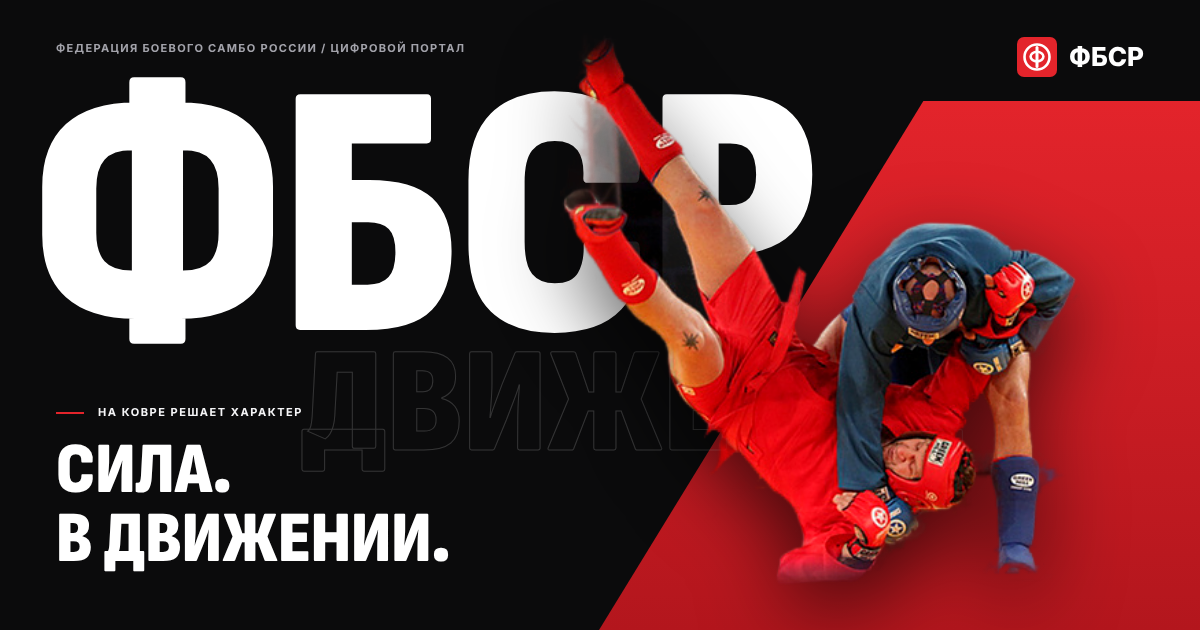
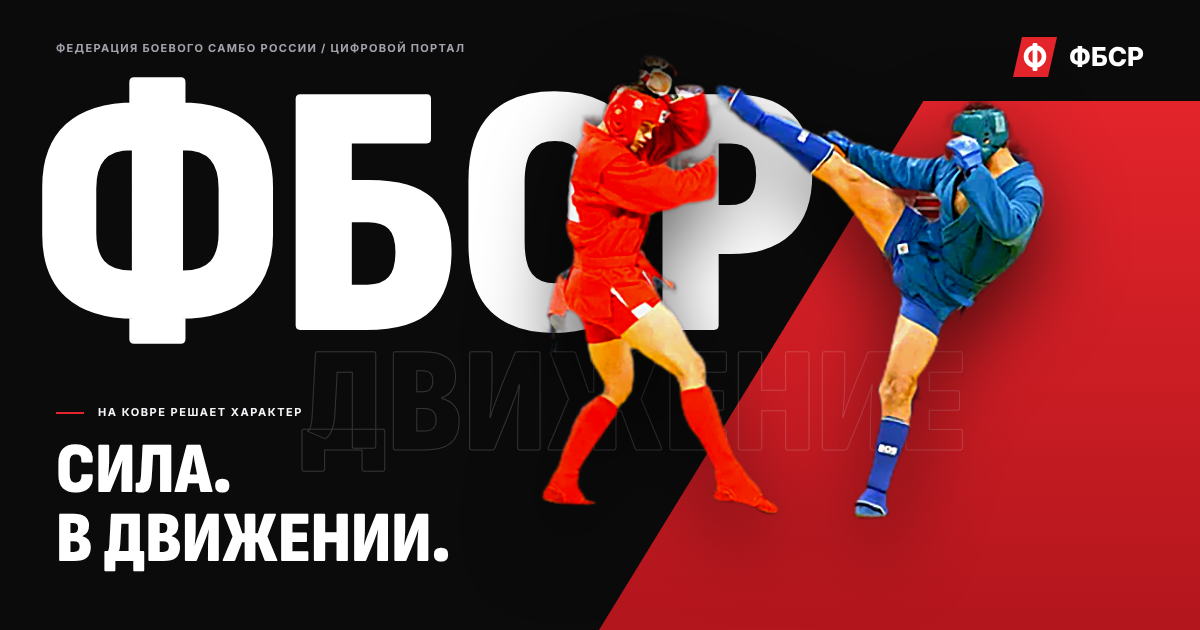
Hero как на макете: стоячая дуэль, постерная обработка фото, логотип
- На главной теперь фото удара ногой (оба спортсмена в стойке, как
  на макете) с постерной обработкой: шумоподавление, контраст,
  насыщенность, резкость; композиция поверх букв «СР» и диагонали
- Фото броска перенесено в шапку раздела «Соревнования»
- Логотип перерисован по макету: скошенный красный знак с белой «Ф»
- OG-картинка перегенерирована, README обновлён

Claude-Session: https://claude.ai/code/session_01J2QHFTbKmJovz3n8Evufan

Changed region(s): [[0.4317, 0.0603, 0.925, 0.9952], [0.8325, 0.0603, 0.8942, 0.1206]]

diff --git a/index.html b/index.html
@@ -37,7 +37,7 @@
 <header class="header">
   <div class="container header__inner">
     <a class="brand" href="index.html" aria-label="ФБСР — на главную">
-      <span class="brand__mark"><svg viewBox="0 0 40 40" aria-hidden="true"><rect width="40" height="40" rx="7" fill="#e3242b"/><circle cx="20" cy="20" r="12.5" fill="none" stroke="#fff" stroke-width="2.6"/><path d="M20 10.5v19" stroke="#fff" stroke-width="3" stroke-linecap="round"/><ellipse cx="20" cy="19.6" rx="6.4" ry="4.8" fill="none" stroke="#fff" stroke-width="2.6"/></svg></span>
+      <span class="brand__mark"><svg viewBox="0 0 44 40" aria-hidden="true"><polygon points="9,0 44,0 35,40 0,40" fill="#e3242b"/><circle cx="22" cy="19.5" r="9" fill="none" stroke="#fff" stroke-width="4.6"/><rect x="19.6" y="6" width="4.8" height="28" rx="1.2" fill="#fff"/></svg></span>
       <span class="brand__name">ФБСР</span>
       <span class="brand__tag">Цифровой<br>портал</span>
     </a>
@@ -59,7 +59,7 @@
     <div class="hero__ghost" data-parallax="-30" data-mouse="6" aria-hidden="true">Движение</div>
     <div class="hero__word" data-parallax="-90" data-mouse="4" aria-hidden="true">ФБСР</div>
     <div class="hero__art" data-parallax="-150" data-mouse="16" data-scale="0.06">
-      <img src="assets/img/hero-throw.png" width="379" height="408" alt="Боевое самбо: бросок в поединке, спортсмены в красной и синей форме" fetchpriority="high">
+      <img src="assets/img/hero-kick.png" width="579" height="538" alt="Боевое самбо: удар ногой в стойке, спортсмены в красной и синей форме" fetchpriority="high">
     </div>
 
     <div class="hero__bottom">
@@ -245,7 +245,7 @@
     <div class="footer__grid">
       <div>
         <a class="brand" href="index.html" aria-label="ФБСР">
-          <span class="brand__mark"><svg viewBox="0 0 40 40" aria-hidden="true"><rect width="40" height="40" rx="7" fill="#e3242b"/><circle cx="20" cy="20" r="12.5" fill="none" stroke="#fff" stroke-width="2.6"/><path d="M20 10.5v19" stroke="#fff" stroke-width="3" stroke-linecap="round"/><ellipse cx="20" cy="19.6" rx="6.4" ry="4.8" fill="none" stroke="#fff" stroke-width="2.6"/></svg></span>
+          <span class="brand__mark"><svg viewBox="0 0 44 40" aria-hidden="true"><polygon points="9,0 44,0 35,40 0,40" fill="#e3242b"/><circle cx="22" cy="19.5" r="9" fill="none" stroke="#fff" stroke-width="4.6"/><rect x="19.6" y="6" width="4.8" height="28" rx="1.2" fill="#fff"/></svg></span>
           <span class="brand__name">ФБСР</span>
         </a>
         <p class="footer__text">Цифровой портал Федерации боевого самбо России: соревнования, спортсмены, клубы и сборные — в одном месте.</p>

diff --git a/competitions.html b/competitions.html
@@ -37,7 +37,7 @@
 <header class="header">
   <div class="container header__inner">
     <a class="brand" href="index.html" aria-label="ФБСР — на главную">
-      <span class="brand__mark"><svg viewBox="0 0 40 40" aria-hidden="true"><rect width="40" height="40" rx="7" fill="#e3242b"/><circle cx="20" cy="20" r="12.5" fill="none" stroke="#fff" stroke-width="2.6"/><path d="M20 10.5v19" stroke="#fff" stroke-width="3" stroke-linecap="round"/><ellipse cx="20" cy="19.6" rx="6.4" ry="4.8" fill="none" stroke="#fff" stroke-width="2.6"/></svg></span>
+      <span class="brand__mark"><svg viewBox="0 0 44 40" aria-hidden="true"><polygon points="9,0 44,0 35,40 0,40" fill="#e3242b"/><circle cx="22" cy="19.5" r="9" fill="none" stroke="#fff" stroke-width="4.6"/><rect x="19.6" y="6" width="4.8" height="28" rx="1.2" fill="#fff"/></svg></span>
       <span class="brand__name">ФБСР</span>
       <span class="brand__tag">Цифровой<br>портал</span>
     </a>
@@ -51,7 +51,7 @@
 </header>
 <main id="main">
 <section class="page-hero page-hero--art" data-word="Турниры">
-  <div class="page-hero__art" aria-hidden="true"><img src="assets/img/hero-kick.png" width="341" height="317" alt=""></div>
+  <div class="page-hero__art" aria-hidden="true"><img src="assets/img/hero-throw.png" width="568" height="612" alt=""></div>
   <div class="container">
     <ul class="breadcrumbs"><li><a href="index.html">Главная</a></li><li>Соревнования</li></ul>
     <span class="eyebrow">Сезон 2026 / 2027</span>
@@ -229,7 +229,7 @@
     <div class="footer__grid">
       <div>
         <a class="brand" href="index.html" aria-label="ФБСР">
-          <span class="brand__mark"><svg viewBox="0 0 40 40" aria-hidden="true"><rect width="40" height="40" rx="7" fill="#e3242b"/><circle cx="20" cy="20" r="12.5" fill="none" stroke="#fff" stroke-width="2.6"/><path d="M20 10.5v19" stroke="#fff" stroke-width="3" stroke-linecap="round"/><ellipse cx="20" cy="19.6" rx="6.4" ry="4.8" fill="none" stroke="#fff" stroke-width="2.6"/></svg></span>
+          <span class="brand__mark"><svg viewBox="0 0 44 40" aria-hidden="true"><polygon points="9,0 44,0 35,40 0,40" fill="#e3242b"/><circle cx="22" cy="19.5" r="9" fill="none" stroke="#fff" stroke-width="4.6"/><rect x="19.6" y="6" width="4.8" height="28" rx="1.2" fill="#fff"/></svg></span>
           <span class="brand__name">ФБСР</span>
         </a>
         <p class="footer__text">Цифровой портал Федерации боевого самбо России: соревнования, спортсмены, клубы и сборные — в одном месте.</p>

diff --git a/assets/css/main.css b/assets/css/main.css
@@ -112,8 +112,8 @@ table { border-collapse: collapse; width: 100%; }
 }
 .header__inner { height: 100%; display: flex; align-items: center; gap: 32px; }
 .brand { display: flex; align-items: center; gap: 14px; flex: 0 0 auto; }
-.brand__mark { width: 40px; height: 40px; flex: 0 0 auto; }
-.brand__name { font-family: var(--font-ui); font-weight: 800; font-size: 23px; letter-spacing: .01em; line-height: 1; }
+.brand__mark { width: 42px; height: 38px; flex: 0 0 auto; }
+.brand__name { font-family: var(--font-ui); font-weight: 800; font-size: 25px; letter-spacing: .01em; line-height: 1; }
 .brand__tag { font-family: var(--font-ui); font-weight: 700; font-size: 9px; letter-spacing: .12em; text-transform: uppercase; color: var(--muted); line-height: 1.3; border-left: 1px solid var(--line-2); padding-left: 14px; }
 .nav { display: flex; align-items: center; gap: 6px; margin-inline: auto; }
 .nav__link {
@@ -165,7 +165,7 @@ table { border-collapse: collapse; width: 100%; }
   will-change: transform;
 }
 .hero__art {
-  position: absolute; z-index: 4; left: 46%; top: 2%; height: 78%; aspect-ratio: 379 / 408; pointer-events: none;
+  position: absolute; z-index: 4; left: 45%; top: 5%; height: 64%; aspect-ratio: 579 / 538; pointer-events: none;
   will-change: transform;
 }
 .hero__art img { width: 100%; height: 100%; object-fit: contain; object-position: bottom; filter: contrast(1.06) saturate(1.08) drop-shadow(0 30px 40px rgba(0,0,0,.65)); }
@@ -500,7 +500,7 @@ table { border-collapse: collapse; width: 100%; }
   .hero__meta--right { margin-top: -39px; justify-content: flex-end; }
   .hero__word { position: relative; left: 0; top: 0; margin-top: 20px; font-size: clamp(120px, 32vw, 280px); }
   .hero__ghost { left: 10%; top: 38%; font-size: clamp(64px, 16vw, 140px); }
-  .hero__art { position: relative; left: auto; top: auto; height: auto; width: min(100%, 520px); margin: -12% 0 0 auto; aspect-ratio: 379 / 408; }
+  .hero__art { position: relative; left: auto; top: auto; height: auto; width: min(100%, 560px); margin: -10% 0 0 auto; aspect-ratio: 579 / 538; }
   .hero__red { inset: 22% -20% 0 0; clip-path: polygon(70% 0, 100% 0, 100% 100%, 40% 100%); }
   .hero__bottom { position: relative; bottom: auto; grid-template-columns: 1fr; gap: 24px; margin-top: 24px; }
   .hero__text { max-width: 44ch; }

diff --git a/athletes.html b/athletes.html
@@ -37,7 +37,7 @@
 <header class="header">
   <div class="container header__inner">
     <a class="brand" href="index.html" aria-label="ФБСР — на главную">
-      <span class="brand__mark"><svg viewBox="0 0 40 40" aria-hidden="true"><rect width="40" height="40" rx="7" fill="#e3242b"/><circle cx="20" cy="20" r="12.5" fill="none" stroke="#fff" stroke-width="2.6"/><path d="M20 10.5v19" stroke="#fff" stroke-width="3" stroke-linecap="round"/><ellipse cx="20" cy="19.6" rx="6.4" ry="4.8" fill="none" stroke="#fff" stroke-width="2.6"/></svg></span>
+      <span class="brand__mark"><svg viewBox="0 0 44 40" aria-hidden="true"><polygon points="9,0 44,0 35,40 0,40" fill="#e3242b"/><circle cx="22" cy="19.5" r="9" fill="none" stroke="#fff" stroke-width="4.6"/><rect x="19.6" y="6" width="4.8" height="28" rx="1.2" fill="#fff"/></svg></span>
       <span class="brand__name">ФБСР</span>
       <span class="brand__tag">Цифровой<br>портал</span>
     </a>
@@ -181,7 +181,7 @@
     <div class="footer__grid">
       <div>
         <a class="brand" href="index.html" aria-label="ФБСР">
-          <span class="brand__mark"><svg viewBox="0 0 40 40" aria-hidden="true"><rect width="40" height="40" rx="7" fill="#e3242b"/><circle cx="20" cy="20" r="12.5" fill="none" stroke="#fff" stroke-width="2.6"/><path d="M20 10.5v19" stroke="#fff" stroke-width="3" stroke-linecap="round"/><ellipse cx="20" cy="19.6" rx="6.4" ry="4.8" fill="none" stroke="#fff" stroke-width="2.6"/></svg></span>
+          <span class="brand__mark"><svg viewBox="0 0 44 40" aria-hidden="true"><polygon points="9,0 44,0 35,40 0,40" fill="#e3242b"/><circle cx="22" cy="19.5" r="9" fill="none" stroke="#fff" stroke-width="4.6"/><rect x="19.6" y="6" width="4.8" height="28" rx="1.2" fill="#fff"/></svg></span>
           <span class="brand__name">ФБСР</span>
         </a>
         <p class="footer__text">Цифровой портал Федерации боевого самбо России: соревнования, спортсмены, клубы и сборные — в одном месте.</p>

diff --git a/clubs.html b/clubs.html
@@ -37,7 +37,7 @@
 <header class="header">
   <div class="container header__inner">
     <a class="brand" href="index.html" aria-label="ФБСР — на главную">
-      <span class="brand__mark"><svg viewBox="0 0 40 40" aria-hidden="true"><rect width="40" height="40" rx="7" fill="#e3242b"/><circle cx="20" cy="20" r="12.5" fill="none" stroke="#fff" stroke-width="2.6"/><path d="M20 10.5v19" stroke="#fff" stroke-width="3" stroke-linecap="round"/><ellipse cx="20" cy="19.6" rx="6.4" ry="4.8" fill="none" stroke="#fff" stroke-width="2.6"/></svg></span>
+      <span class="brand__mark"><svg viewBox="0 0 44 40" aria-hidden="true"><polygon points="9,0 44,0 35,40 0,40" fill="#e3242b"/><circle cx="22" cy="19.5" r="9" fill="none" stroke="#fff" stroke-width="4.6"/><rect x="19.6" y="6" width="4.8" height="28" rx="1.2" fill="#fff"/></svg></span>
       <span class="brand__name">ФБСР</span>
       <span class="brand__tag">Цифровой<br>портал</span>
     </a>
@@ -172,7 +172,7 @@
     <div class="footer__grid">
       <div>
         <a class="brand" href="index.html" aria-label="ФБСР">
-          <span class="brand__mark"><svg viewBox="0 0 40 40" aria-hidden="true"><rect width="40" height="40" rx="7" fill="#e3242b"/><circle cx="20" cy="20" r="12.5" fill="none" stroke="#fff" stroke-width="2.6"/><path d="M20 10.5v19" stroke="#fff" stroke-width="3" stroke-linecap="round"/><ellipse cx="20" cy="19.6" rx="6.4" ry="4.8" fill="none" stroke="#fff" stroke-width="2.6"/></svg></span>
+          <span class="brand__mark"><svg viewBox="0 0 44 40" aria-hidden="true"><polygon points="9,0 44,0 35,40 0,40" fill="#e3242b"/><circle cx="22" cy="19.5" r="9" fill="none" stroke="#fff" stroke-width="4.6"/><rect x="19.6" y="6" width="4.8" height="28" rx="1.2" fill="#fff"/></svg></span>
           <span class="brand__name">ФБСР</span>
         </a>
         <p class="footer__text">Цифровой портал Федерации боевого самбо России: соревнования, спортсмены, клубы и сборные — в одном месте.</p>

diff --git a/cookies.html b/cookies.html
@@ -37,7 +37,7 @@
 <header class="header">
   <div class="container header__inner">
     <a class="brand" href="index.html" aria-label="ФБСР — на главную">
-      <span class="brand__mark"><svg viewBox="0 0 40 40" aria-hidden="true"><rect width="40" height="40" rx="7" fill="#e3242b"/><circle cx="20" cy="20" r="12.5" fill="none" stroke="#fff" stroke-width="2.6"/><path d="M20 10.5v19" stroke="#fff" stroke-width="3" stroke-linecap="round"/><ellipse cx="20" cy="19.6" rx="6.4" ry="4.8" fill="none" stroke="#fff" stroke-width="2.6"/></svg></span>
+      <span class="brand__mark"><svg viewBox="0 0 44 40" aria-hidden="true"><polygon points="9,0 44,0 35,40 0,40" fill="#e3242b"/><circle cx="22" cy="19.5" r="9" fill="none" stroke="#fff" stroke-width="4.6"/><rect x="19.6" y="6" width="4.8" height="28" rx="1.2" fill="#fff"/></svg></span>
       <span class="brand__name">ФБСР</span>
       <span class="brand__tag">Цифровой<br>портал</span>
     </a>
@@ -121,7 +121,7 @@
     <div class="footer__grid">
       <div>
         <a class="brand" href="index.html" aria-label="ФБСР">
-          <span class="brand__mark"><svg viewBox="0 0 40 40" aria-hidden="true"><rect width="40" height="40" rx="7" fill="#e3242b"/><circle cx="20" cy="20" r="12.5" fill="none" stroke="#fff" stroke-width="2.6"/><path d="M20 10.5v19" stroke="#fff" stroke-width="3" stroke-linecap="round"/><ellipse cx="20" cy="19.6" rx="6.4" ry="4.8" fill="none" stroke="#fff" stroke-width="2.6"/></svg></span>
+          <span class="brand__mark"><svg viewBox="0 0 44 40" aria-hidden="true"><polygon points="9,0 44,0 35,40 0,40" fill="#e3242b"/><circle cx="22" cy="19.5" r="9" fill="none" stroke="#fff" stroke-width="4.6"/><rect x="19.6" y="6" width="4.8" height="28" rx="1.2" fill="#fff"/></svg></span>
           <span class="brand__name">ФБСР</span>
         </a>
         <p class="footer__text">Цифровой портал Федерации боевого самбо России: соревнования, спортсмены, клубы и сборные — в одном месте.</p>

diff --git a/federation.html b/federation.html
@@ -37,7 +37,7 @@
 <header class="header">
   <div class="container header__inner">
     <a class="brand" href="index.html" aria-label="ФБСР — на главную">
-      <span class="brand__mark"><svg viewBox="0 0 40 40" aria-hidden="true"><rect width="40" height="40" rx="7" fill="#e3242b"/><circle cx="20" cy="20" r="12.5" fill="none" stroke="#fff" stroke-width="2.6"/><path d="M20 10.5v19" stroke="#fff" stroke-width="3" stroke-linecap="round"/><ellipse cx="20" cy="19.6" rx="6.4" ry="4.8" fill="none" stroke="#fff" stroke-width="2.6"/></svg></span>
+      <span class="brand__mark"><svg viewBox="0 0 44 40" aria-hidden="true"><polygon points="9,0 44,0 35,40 0,40" fill="#e3242b"/><circle cx="22" cy="19.5" r="9" fill="none" stroke="#fff" stroke-width="4.6"/><rect x="19.6" y="6" width="4.8" height="28" rx="1.2" fill="#fff"/></svg></span>
       <span class="brand__name">ФБСР</span>
       <span class="brand__tag">Цифровой<br>портал</span>
     </a>
@@ -199,7 +199,7 @@
     <div class="footer__grid">
       <div>
         <a class="brand" href="index.html" aria-label="ФБСР">
-          <span class="brand__mark"><svg viewBox="0 0 40 40" aria-hidden="true"><rect width="40" height="40" rx="7" fill="#e3242b"/><circle cx="20" cy="20" r="12.5" fill="none" stroke="#fff" stroke-width="2.6"/><path d="M20 10.5v19" stroke="#fff" stroke-width="3" stroke-linecap="round"/><ellipse cx="20" cy="19.6" rx="6.4" ry="4.8" fill="none" stroke="#fff" stroke-width="2.6"/></svg></span>
+          <span class="brand__mark"><svg viewBox="0 0 44 40" aria-hidden="true"><polygon points="9,0 44,0 35,40 0,40" fill="#e3242b"/><circle cx="22" cy="19.5" r="9" fill="none" stroke="#fff" stroke-width="4.6"/><rect x="19.6" y="6" width="4.8" height="28" rx="1.2" fill="#fff"/></svg></span>
           <span class="brand__name">ФБСР</span>
         </a>
         <p class="footer__text">Цифровой портал Федерации боевого самбо России: соревнования, спортсмены, клубы и сборные — в одном месте.</p>

diff --git a/media.html b/media.html
@@ -37,7 +37,7 @@
 <header class="header">
   <div class="container header__inner">
     <a class="brand" href="index.html" aria-label="ФБСР — на главную">
-      <span class="brand__mark"><svg viewBox="0 0 40 40" aria-hidden="true"><rect width="40" height="40" rx="7" fill="#e3242b"/><circle cx="20" cy="20" r="12.5" fill="none" stroke="#fff" stroke-width="2.6"/><path d="M20 10.5v19" stroke="#fff" stroke-width="3" stroke-linecap="round"/><ellipse cx="20" cy="19.6" rx="6.4" ry="4.8" fill="none" stroke="#fff" stroke-width="2.6"/></svg></span>
+      <span class="brand__mark"><svg viewBox="0 0 44 40" aria-hidden="true"><polygon points="9,0 44,0 35,40 0,40" fill="#e3242b"/><circle cx="22" cy="19.5" r="9" fill="none" stroke="#fff" stroke-width="4.6"/><rect x="19.6" y="6" width="4.8" height="28" rx="1.2" fill="#fff"/></svg></span>
       <span class="brand__name">ФБСР</span>
       <span class="brand__tag">Цифровой<br>портал</span>
     </a>
@@ -150,7 +150,7 @@
     <div class="footer__grid">
       <div>
         <a class="brand" href="index.html" aria-label="ФБСР">
-          <span class="brand__mark"><svg viewBox="0 0 40 40" aria-hidden="true"><rect width="40" height="40" rx="7" fill="#e3242b"/><circle cx="20" cy="20" r="12.5" fill="none" stroke="#fff" stroke-width="2.6"/><path d="M20 10.5v19" stroke="#fff" stroke-width="3" stroke-linecap="round"/><ellipse cx="20" cy="19.6" rx="6.4" ry="4.8" fill="none" stroke="#fff" stroke-width="2.6"/></svg></span>
+          <span class="brand__mark"><svg viewBox="0 0 44 40" aria-hidden="true"><polygon points="9,0 44,0 35,40 0,40" fill="#e3242b"/><circle cx="22" cy="19.5" r="9" fill="none" stroke="#fff" stroke-width="4.6"/><rect x="19.6" y="6" width="4.8" height="28" rx="1.2" fill="#fff"/></svg></span>
           <span class="brand__name">ФБСР</span>
         </a>
         <p class="footer__text">Цифровой портал Федерации боевого самбо России: соревнования, спортсмены, клубы и сборные — в одном месте.</p>

diff --git a/privacy.html b/privacy.html
@@ -37,7 +37,7 @@
 <header class="header">
   <div class="container header__inner">
     <a class="brand" href="index.html" aria-label="ФБСР — на главную">
-      <span class="brand__mark"><svg viewBox="0 0 40 40" aria-hidden="true"><rect width="40" height="40" rx="7" fill="#e3242b"/><circle cx="20" cy="20" r="12.5" fill="none" stroke="#fff" stroke-width="2.6"/><path d="M20 10.5v19" stroke="#fff" stroke-width="3" stroke-linecap="round"/><ellipse cx="20" cy="19.6" rx="6.4" ry="4.8" fill="none" stroke="#fff" stroke-width="2.6"/></svg></span>
+      <span class="brand__mark"><svg viewBox="0 0 44 40" aria-hidden="true"><polygon points="9,0 44,0 35,40 0,40" fill="#e3242b"/><circle cx="22" cy="19.5" r="9" fill="none" stroke="#fff" stroke-width="4.6"/><rect x="19.6" y="6" width="4.8" height="28" rx="1.2" fill="#fff"/></svg></span>
       <span class="brand__name">ФБСР</span>
       <span class="brand__tag">Цифровой<br>портал</span>
     </a>
@@ -159,7 +159,7 @@
     <div class="footer__grid">
       <div>
         <a class="brand" href="index.html" aria-label="ФБСР">
-          <span class="brand__mark"><svg viewBox="0 0 40 40" aria-hidden="true"><rect width="40" height="40" rx="7" fill="#e3242b"/><circle cx="20" cy="20" r="12.5" fill="none" stroke="#fff" stroke-width="2.6"/><path d="M20 10.5v19" stroke="#fff" stroke-width="3" stroke-linecap="round"/><ellipse cx="20" cy="19.6" rx="6.4" ry="4.8" fill="none" stroke="#fff" stroke-width="2.6"/></svg></span>
+          <span class="brand__mark"><svg viewBox="0 0 44 40" aria-hidden="true"><polygon points="9,0 44,0 35,40 0,40" fill="#e3242b"/><circle cx="22" cy="19.5" r="9" fill="none" stroke="#fff" stroke-width="4.6"/><rect x="19.6" y="6" width="4.8" height="28" rx="1.2" fill="#fff"/></svg></span>
           <span class="brand__name">ФБСР</span>
         </a>
         <p class="footer__text">Цифровой портал Федерации боевого самбо России: соревнования, спортсмены, клубы и сборные — в одном месте.</p>

diff --git a/teams.html b/teams.html
@@ -37,7 +37,7 @@
 <header class="header">
   <div class="container header__inner">
     <a class="brand" href="index.html" aria-label="ФБСР — на главную">
-      <span class="brand__mark"><svg viewBox="0 0 40 40" aria-hidden="true"><rect width="40" height="40" rx="7" fill="#e3242b"/><circle cx="20" cy="20" r="12.5" fill="none" stroke="#fff" stroke-width="2.6"/><path d="M20 10.5v19" stroke="#fff" stroke-width="3" stroke-linecap="round"/><ellipse cx="20" cy="19.6" rx="6.4" ry="4.8" fill="none" stroke="#fff" stroke-width="2.6"/></svg></span>
+      <span class="brand__mark"><svg viewBox="0 0 44 40" aria-hidden="true"><polygon points="9,0 44,0 35,40 0,40" fill="#e3242b"/><circle cx="22" cy="19.5" r="9" fill="none" stroke="#fff" stroke-width="4.6"/><rect x="19.6" y="6" width="4.8" height="28" rx="1.2" fill="#fff"/></svg></span>
       <span class="brand__name">ФБСР</span>
       <span class="brand__tag">Цифровой<br>портал</span>
     </a>
@@ -168,7 +168,7 @@
     <div class="footer__grid">
       <div>
         <a class="brand" href="index.html" aria-label="ФБСР">
-          <span class="brand__mark"><svg viewBox="0 0 40 40" aria-hidden="true"><rect width="40" height="40" rx="7" fill="#e3242b"/><circle cx="20" cy="20" r="12.5" fill="none" stroke="#fff" stroke-width="2.6"/><path d="M20 10.5v19" stroke="#fff" stroke-width="3" stroke-linecap="round"/><ellipse cx="20" cy="19.6" rx="6.4" ry="4.8" fill="none" stroke="#fff" stroke-width="2.6"/></svg></span>
+          <span class="brand__mark"><svg viewBox="0 0 44 40" aria-hidden="true"><polygon points="9,0 44,0 35,40 0,40" fill="#e3242b"/><circle cx="22" cy="19.5" r="9" fill="none" stroke="#fff" stroke-width="4.6"/><rect x="19.6" y="6" width="4.8" height="28" rx="1.2" fill="#fff"/></svg></span>
           <span class="brand__name">ФБСР</span>
         </a>
         <p class="footer__text">Цифровой портал Федерации боевого самбо России: соревнования, спортсмены, клубы и сборные — в одном месте.</p>

diff --git a/terms.html b/terms.html
@@ -37,7 +37,7 @@
 <header class="header">
   <div class="container header__inner">
     <a class="brand" href="index.html" aria-label="ФБСР — на главную">
-      <span class="brand__mark"><svg viewBox="0 0 40 40" aria-hidden="true"><rect width="40" height="40" rx="7" fill="#e3242b"/><circle cx="20" cy="20" r="12.5" fill="none" stroke="#fff" stroke-width="2.6"/><path d="M20 10.5v19" stroke="#fff" stroke-width="3" stroke-linecap="round"/><ellipse cx="20" cy="19.6" rx="6.4" ry="4.8" fill="none" stroke="#fff" stroke-width="2.6"/></svg></span>
+      <span class="brand__mark"><svg viewBox="0 0 44 40" aria-hidden="true"><polygon points="9,0 44,0 35,40 0,40" fill="#e3242b"/><circle cx="22" cy="19.5" r="9" fill="none" stroke="#fff" stroke-width="4.6"/><rect x="19.6" y="6" width="4.8" height="28" rx="1.2" fill="#fff"/></svg></span>
       <span class="brand__name">ФБСР</span>
       <span class="brand__tag">Цифровой<br>портал</span>
     </a>
@@ -101,7 +101,7 @@
     <div class="footer__grid">
       <div>
         <a class="brand" href="index.html" aria-label="ФБСР">
-          <span class="brand__mark"><svg viewBox="0 0 40 40" aria-hidden="true"><rect width="40" height="40" rx="7" fill="#e3242b"/><circle cx="20" cy="20" r="12.5" fill="none" stroke="#fff" stroke-width="2.6"/><path d="M20 10.5v19" stroke="#fff" stroke-width="3" stroke-linecap="round"/><ellipse cx="20" cy="19.6" rx="6.4" ry="4.8" fill="none" stroke="#fff" stroke-width="2.6"/></svg></span>
+          <span class="brand__mark"><svg viewBox="0 0 44 40" aria-hidden="true"><polygon points="9,0 44,0 35,40 0,40" fill="#e3242b"/><circle cx="22" cy="19.5" r="9" fill="none" stroke="#fff" stroke-width="4.6"/><rect x="19.6" y="6" width="4.8" height="28" rx="1.2" fill="#fff"/></svg></span>
           <span class="brand__name">ФБСР</span>
         </a>
         <p class="footer__text">Цифровой портал Федерации боевого самбо России: соревнования, спортсмены, клубы и сборные — в одном месте.</p>

diff --git a/404.html b/404.html
@@ -37,7 +37,7 @@
 <header class="header">
   <div class="container header__inner">
     <a class="brand" href="index.html" aria-label="ФБСР — на главную">
-      <span class="brand__mark"><svg viewBox="0 0 40 40" aria-hidden="true"><rect width="40" height="40" rx="7" fill="#e3242b"/><circle cx="20" cy="20" r="12.5" fill="none" stroke="#fff" stroke-width="2.6"/><path d="M20 10.5v19" stroke="#fff" stroke-width="3" stroke-linecap="round"/><ellipse cx="20" cy="19.6" rx="6.4" ry="4.8" fill="none" stroke="#fff" stroke-width="2.6"/></svg></span>
+      <span class="brand__mark"><svg viewBox="0 0 44 40" aria-hidden="true"><polygon points="9,0 44,0 35,40 0,40" fill="#e3242b"/><circle cx="22" cy="19.5" r="9" fill="none" stroke="#fff" stroke-width="4.6"/><rect x="19.6" y="6" width="4.8" height="28" rx="1.2" fill="#fff"/></svg></span>
       <span class="brand__name">ФБСР</span>
       <span class="brand__tag">Цифровой<br>портал</span>
     </a>
@@ -69,7 +69,7 @@
     <div class="footer__grid">
       <div>
         <a class="brand" href="index.html" aria-label="ФБСР">
-          <span class="brand__mark"><svg viewBox="0 0 40 40" aria-hidden="true"><rect width="40" height="40" rx="7" fill="#e3242b"/><circle cx="20" cy="20" r="12.5" fill="none" stroke="#fff" stroke-width="2.6"/><path d="M20 10.5v19" stroke="#fff" stroke-width="3" stroke-linecap="round"/><ellipse cx="20" cy="19.6" rx="6.4" ry="4.8" fill="none" stroke="#fff" stroke-width="2.6"/></svg></span>
+          <span class="brand__mark"><svg viewBox="0 0 44 40" aria-hidden="true"><polygon points="9,0 44,0 35,40 0,40" fill="#e3242b"/><circle cx="22" cy="19.5" r="9" fill="none" stroke="#fff" stroke-width="4.6"/><rect x="19.6" y="6" width="4.8" height="28" rx="1.2" fill="#fff"/></svg></span>
           <span class="brand__name">ФБСР</span>
         </a>
         <p class="footer__text">Цифровой портал Федерации боевого самбо России: соревнования, спортсмены, клубы и сборные — в одном месте.</p>
